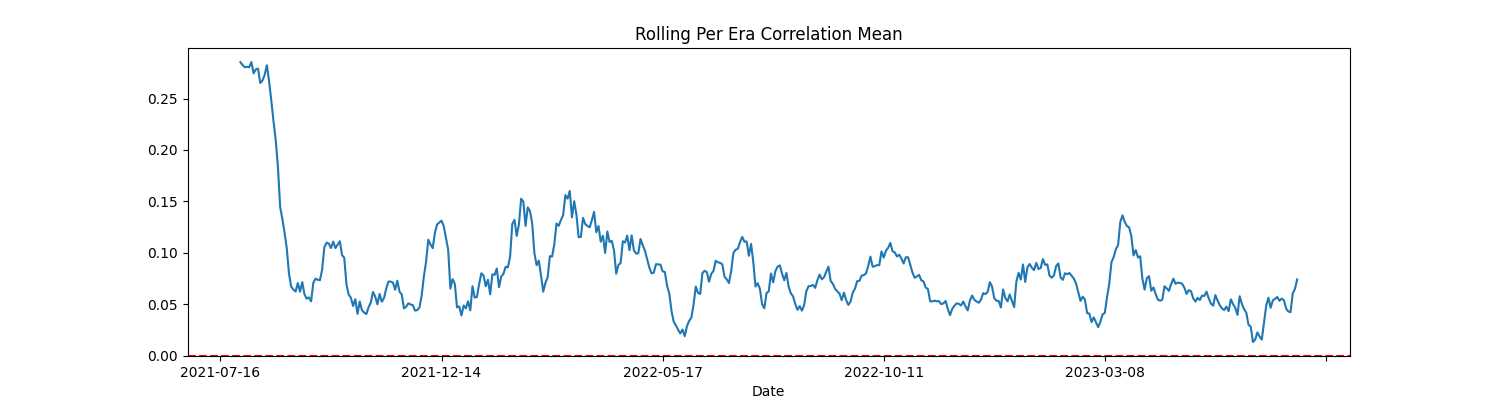
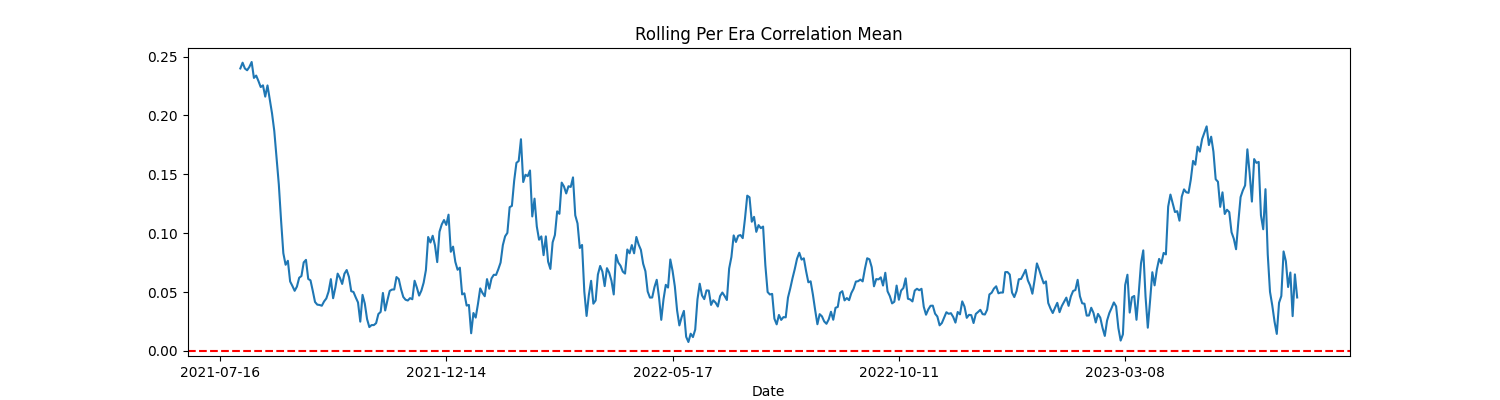
train and test splitted using date now

diff --git a/learn_model.py b/learn_model.py
@@ -26,7 +26,8 @@ ENSEMBLE_NUM = 3 # < 4
 DATA_USE_RATE = 1
 DO_SHAP = False
 SAVE_MODEL = True
-FORECAST = 2
+FORECAST = 1
+TRAIN_SIZE = 0.8
 
 # 実行時間計測
 start = time.time()
@@ -43,8 +44,12 @@ for i in range(len(prices_normal)):
 # データを分割して捨てる
 prices_normal, not_use = train_test_split(prices_normal, train_size=DATA_USE_RATE-1e-5, random_state=SEED)
 
-# 学習・評価データの分割(ランダムに銘柄で分割)
-train, test = train_test_split(prices_normal, test_size=0.2, random_state=SEED)
+# 学習・評価データの分割
+# ランダムに銘柄で分割
+#train, test = train_test_split(prices_normal, train_size=TRAIN_SIZE, random_state=SEED)
+# 期間で分割
+train = [code_price[:int(len(code_price) * TRAIN_SIZE)] for code_price in prices_normal]
+test = [code_price[int(len(code_price) * TRAIN_SIZE):] for code_price in prices_normal]
 
 # 銘柄でまとめてある配列を一次元化リスト化
 flat_train = [x for row in train for x in row]
@@ -174,8 +179,8 @@ elif MODEL == "ENSEMBLE_GBM_LR":
 '''    
 elif MODEL == "NEURAL":
     # パラメータ
-    LAYERS = 1
-    NODES = len(features)
+    LAYERS = 15
+    NODES = len(features)+1
     BATCH_SIZE = 64
     EPOCHS = 100
     
